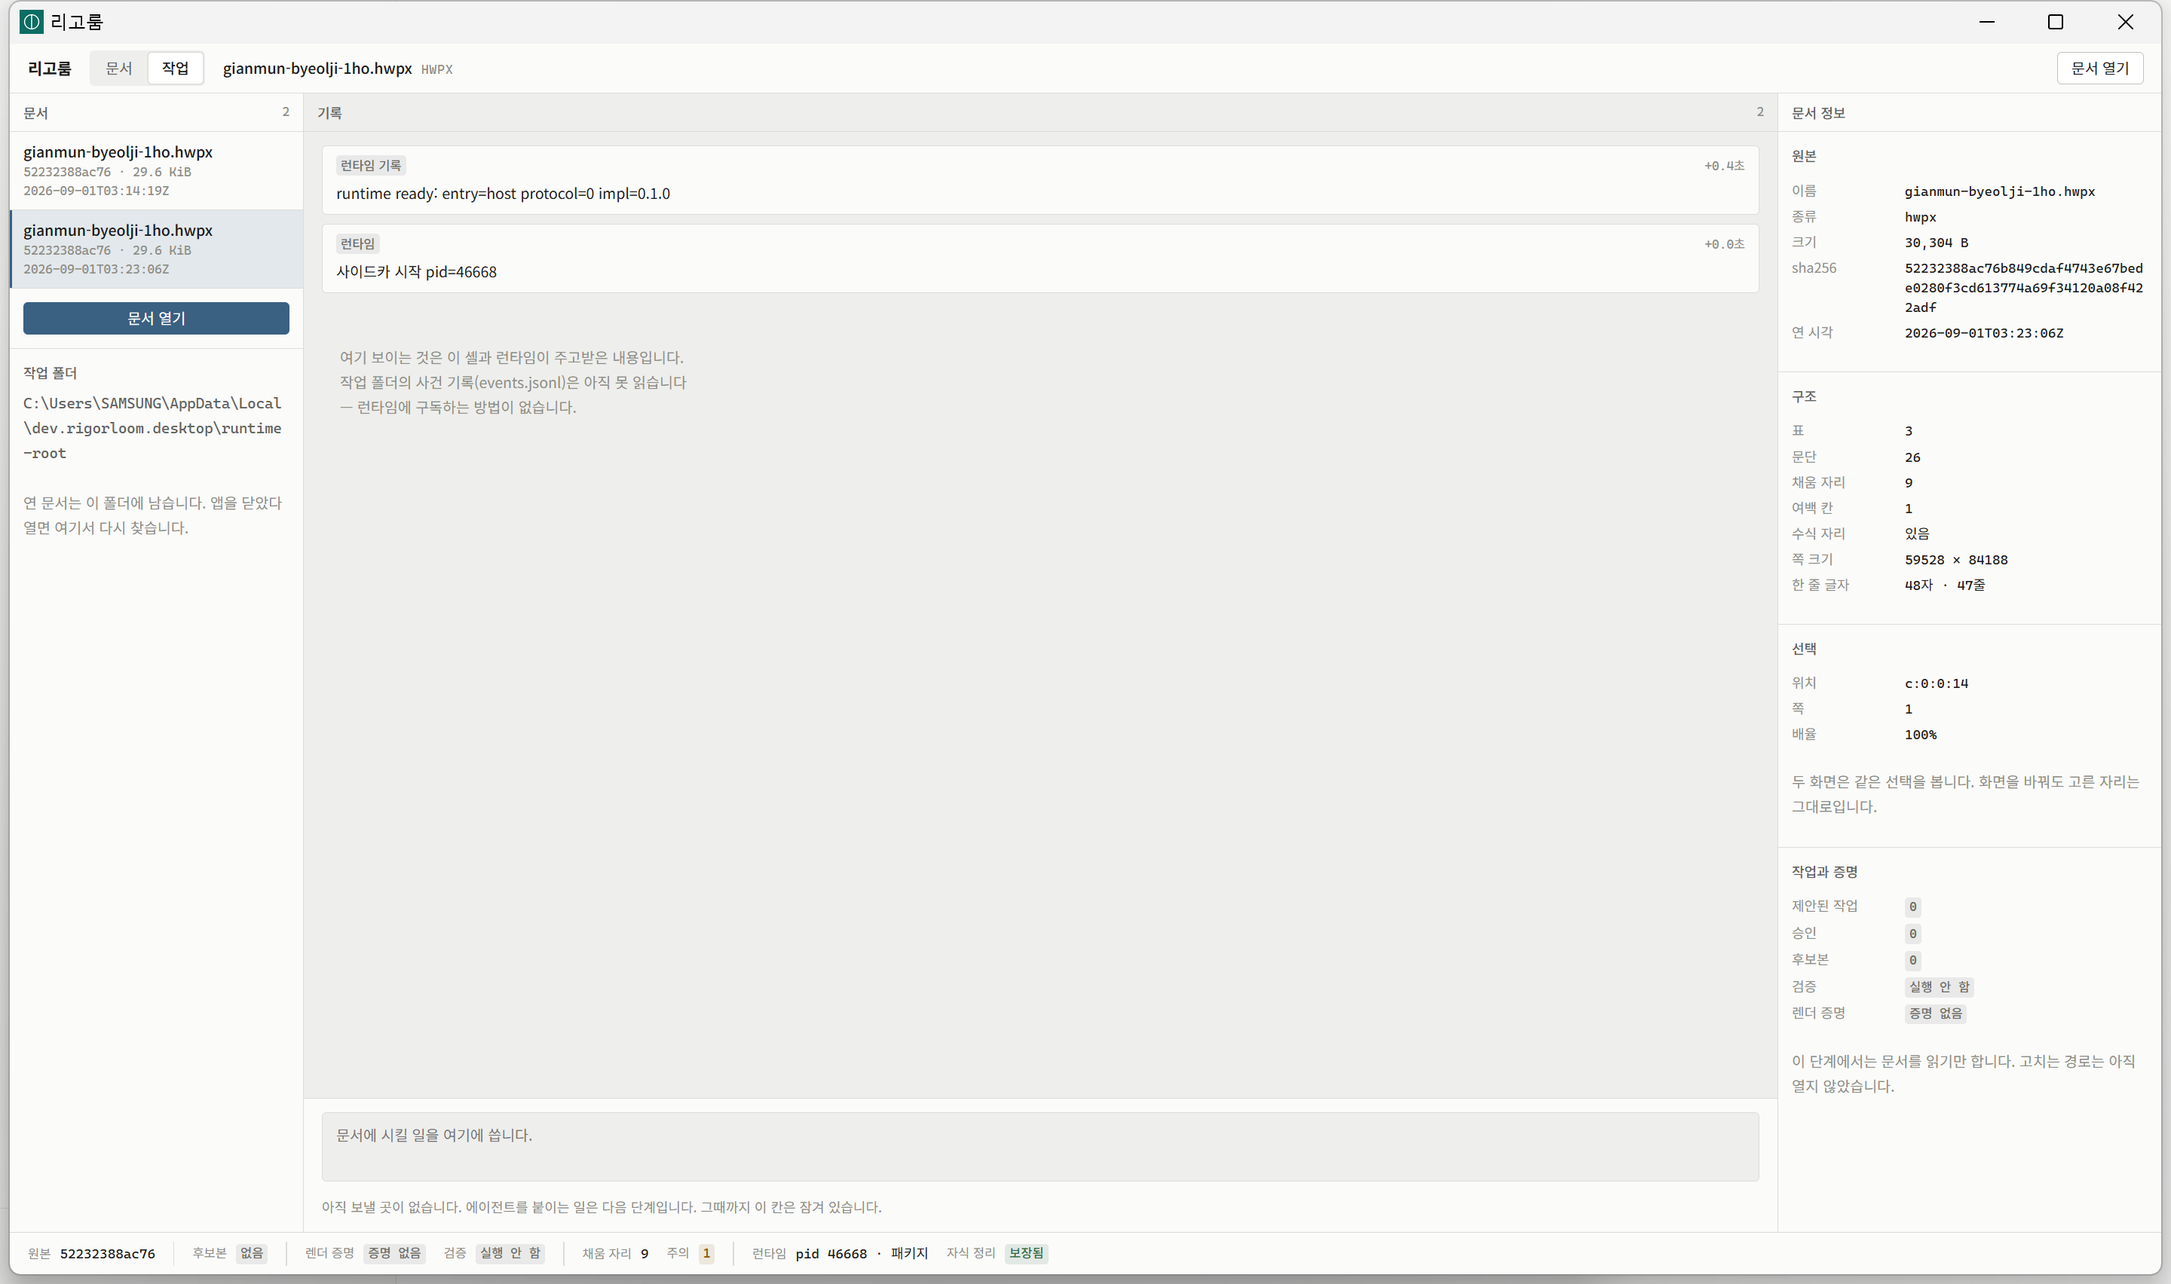
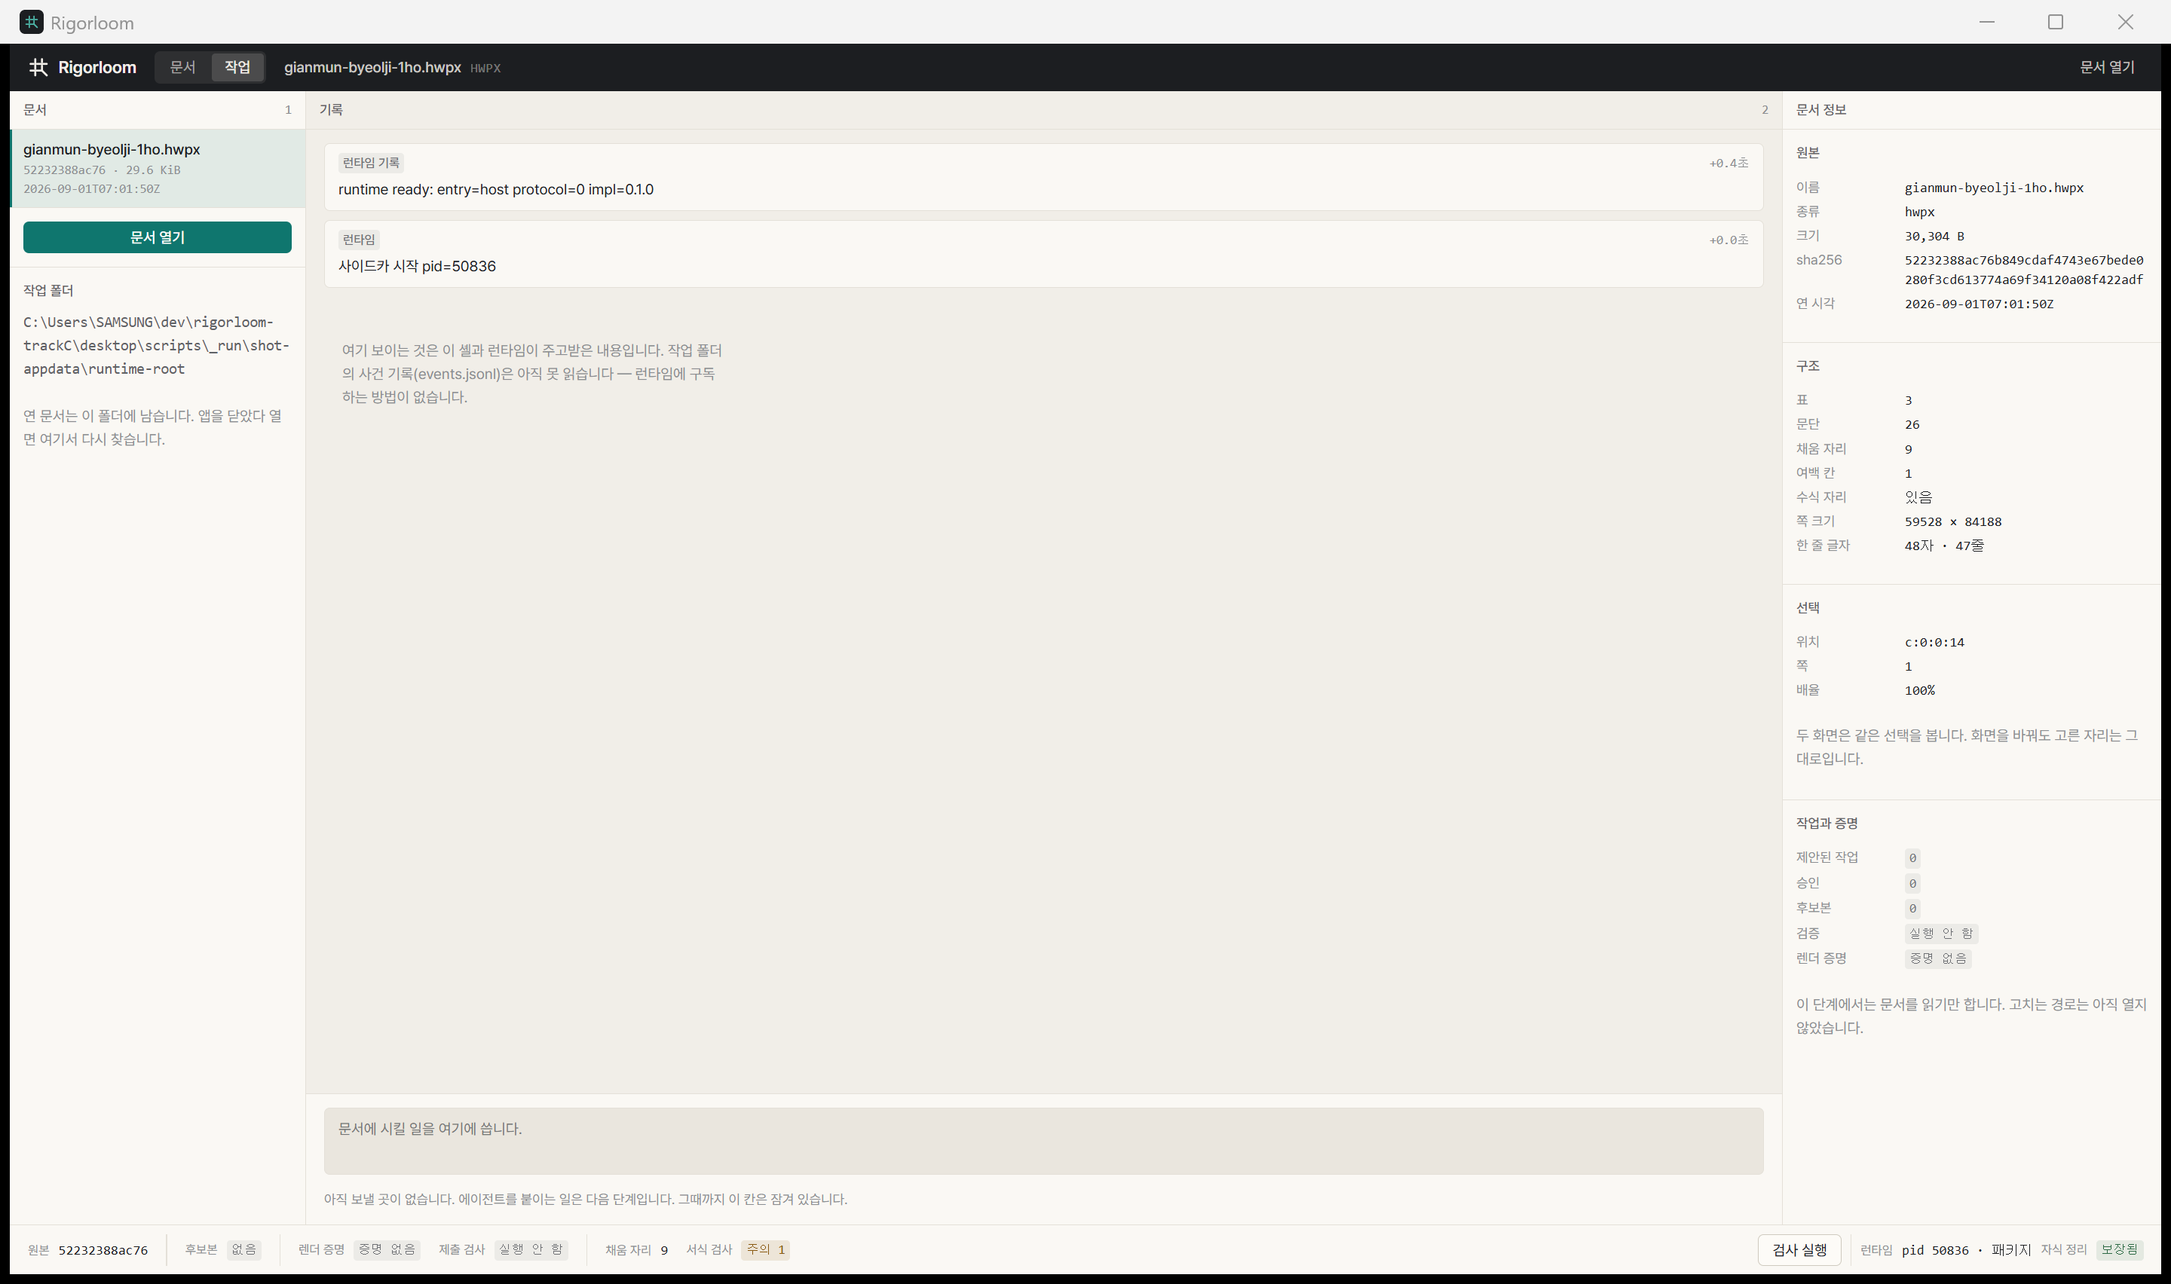
test(desktop): close the design slice's evidence, and four defects it found
Build exit 0 (4m30s), smoke 64 checks / 0 failures exit 0, screenshots 6 images
exit 0, pytest tests/test_runtime_*.py 162 passed exit 0. Shell exe 8.22 MiB,
NSIS installer 10.90 MiB, sidecar 23.26 MiB — the growth over Phase 3 is almost
exactly the 1.96 MiB of bundled Pretendard.

The four screenshots from Phase 3 are replaced and two new states added:
entrance, welcome, and both views at 100 and 150 percent, all with the real
corpus 기안문 loaded.

Getting there took four fixes, all in code or harness previously reported as
working.

The smoke never had the isolated profile it claimed. smoke.ps1 set
$env:LOCALAPPDATA to redirect the app's data directory, but Tauri resolves
app_local_data_dir() through SHGetKnownFolderPath, which reads the user profile
from the OS and ignores that variable — proven by the mtime on the developer's
real %LOCALAPPDATA%\dev.rigorloom.desktop\desktop-prefs.json moving during a
run. Every "clean user" run had been reading and writing real prefs, so boot()
found the previous run's lastSessionId, opened a document, and the welcome
screen never mounted. app_data_dir() now honours an explicit RIGORLOOM_APPDATA
and both scripts set it. A dead $SmokeRoot that was created and deleted but
never handed to the app is gone.

locate-flash was applied with classList.add while className on those cells is
React-controlled, so the next render dropped it — a flash that vanished for
users, not only for the harness. It is React state now. My first attempt put it
[…]

diff --git a/desktop/src/components/TextView.tsx b/desktop/src/components/TextView.tsx
@@ -32,7 +32,7 @@
  * slot's contents with an input and drafts an OperationPlan; nothing else about
  * this component has to change.
  */
-import { useEffect, useMemo, useRef } from "react";
+import { useEffect, useMemo, useRef, useState } from "react";
 
 import {
   activeText,
@@ -171,6 +171,18 @@ export function TextView({ inspect }: { inspect: InspectResult }) {
     [inspect],
   );
 
+  /**
+   * The node currently flashing, as state rather than a class poked onto the
+   * DOM.
+   *
+   * The imperative version lost the flash at random: `className` on these
+   * cells is a React-controlled prop, so the very next render — a selection
+   * change, a text arriving, anything — overwrote the attribute and took
+   * `locate-flash` with it. Owning it in state means React writes the class
+   * itself and no re-render can drop it.
+   */
+  const [flashId, setFlashId] = useState<string | null>(null);
+
   // Tree -> centre. Only when something asked (locateNonce), so clicking in
   // the document does not scroll the document out from under the pointer.
   useEffect(() => {
@@ -180,10 +192,19 @@ export function TextView({ inspect }: { inspect: InspectResult }) {
     );
     if (!target) return;
     target.scrollIntoView({ block: "center", behavior: "smooth" });
-    target.classList.remove("locate-flash");
-    // Force a reflow so the animation restarts on a repeated locate.
-    void target.offsetWidth;
-    target.classList.add("locate-flash");
+
+    // Set synchronously, with no requestAnimationFrame in the way. WebView2
+    // withholds rAF from a window that is not in the foreground, so a callback
+    // scheduled that way may simply never run — which would make the flash a
+    // coin-flip on any machine where the window lost focus, and made it fail
+    // every time under the harness.
+    //
+    // The cost of not clearing first is that a second locate on the same node
+    // inside 900 ms does not restart the animation. After 900 ms the timer has
+    // cleared the class and it restarts normally.
+    setFlashId(currentId);
+    const clear = window.setTimeout(() => setFlashId(null), 900);
+    return () => window.clearTimeout(clear);
   }, [locateNonce, currentId]);
 
   const select = (selection: Selection) => setSelection(selection);
@@ -210,15 +231,18 @@ export function TextView({ inspect }: { inspect: InspectResult }) {
                         colSpan={colSpan}
                         data-node-id={id}
                         data-testid={`doc-cell-${table.index}-${cell.addr.row}-${cell.addr.col}`}
-                        className={
+                        className={[
                           cell.classification === "fill_target"
                             ? "seat"
                             : cell.classification === "guide"
                               ? "guide"
                               : cell.classification === "spacer"
                                 ? "spacer"
-                                : ""
-                        }
+                                : "",
+                          flashId === id ? "locate-flash" : "",
+                        ]
+                          .filter(Boolean)
+                          .join(" ")}
                         aria-selected={currentId === id}
                         title={`R${cell.addr.row}C${cell.addr.col} · ${cell.classification}`}
                         onClick={() =>
@@ -252,7 +276,7 @@ export function TextView({ inspect }: { inspect: InspectResult }) {
               return (
                 <p
                   key={id}
-                  className="doc-para"
+                  className={flashId === id ? "doc-para locate-flash" : "doc-para"}
                   data-node-id={id}
                   data-testid={`doc-para-${para.at_para}`}
                   aria-selected={currentId === id}

diff --git a/desktop/src/smoke.ts b/desktop/src/smoke.ts
@@ -97,9 +97,20 @@ async function phaseOpen(config: SmokeConfig) {
   check("the packaged sidecar is the one running", status?.mode === "packaged", status?.mode ?? "none");
 
   // --- the welcome state, before any document ------------------------------
+  // `boot()` resolving only means the state is ready; React has not painted
+  // the shell yet, and the entrance is still over the top of it. Everything
+  // above this line reads the store, so it did not care — these read the DOM,
+  // so they have to wait for one.
+  await settled(160);
+  // A bare boolean here told me nothing when it failed, so both of these say
+  // what they actually saw.
+  const centre = document.querySelector(".panel.center");
+  const centreState = centre
+    ? `centre=${centre.firstElementChild?.className || "(empty)"}`
+    : `no centre panel; phase=${getState().phase}, splash=${!getState().entranceDone}`;
   check("welcome screen shown before a document is open",
-    !!document.querySelector('[data-testid="welcome"]'));
-  check("welcome offers a drop target", !!document.querySelector(".drop"));
+    !!document.querySelector('[data-testid="welcome"]'), centreState);
+  check("welcome offers a drop target", !!document.querySelector(".drop"), centreState);
   check("brand mark rendered", !!document.querySelector('[data-testid="logo"]'));
 
   if (!config.corpus) {
@@ -183,10 +194,20 @@ async function phaseOpen(config: SmokeConfig) {
   const seatId = selectionId(seatSel);
   locateSelection(seatSel);
   await settled(160);
-  const centreNode = document.querySelector(`[data-node-id="${CSS.escape(seatId)}"]`);
+  // Scoped to the centre, and that scoping is the whole point of the check.
+  // The tree and the centre both label their nodes with `data-node-id`, and
+  // the tree comes first in the document, so an unscoped querySelector returns
+  // the tree row — which made "the centre agrees with the tree" pass by
+  // inspecting the tree and agreeing with itself.
+  const centreNode = document.querySelector(
+    `[data-testid="text-view"] [data-node-id="${CSS.escape(seatId)}"]`,
+  );
   check("selecting in the tree marks the same node in the centre",
-    centreNode?.getAttribute("aria-selected") === "true", seatId);
-  check("the located node flashes", centreNode?.classList.contains("locate-flash") === true);
+    centreNode?.getAttribute("aria-selected") === "true",
+    centreNode ? seatId : "node not in the centre");
+  check("the located node flashes",
+    centreNode?.classList.contains("locate-flash") === true,
+    centreNode ? `class="${centreNode.className}"` : "node not in the centre");
 
   // --- centre -> tree sync ---------------------------------------------------
   const otherCell = inspect.graph.tables[0].cells.find(

diff --git a/desktop/src-tauri/src/main.rs b/desktop/src-tauri/src/main.rs
@@ -33,11 +33,29 @@ fn repo_root() -> PathBuf {
         .unwrap_or_else(|| PathBuf::from(MANIFEST_DIR))
 }
 
-fn default_root(app: &AppHandle) -> PathBuf {
+/// Where this build keeps prefs and the runtime root.
+///
+/// `RIGORLOOM_APPDATA` overrides it, and the harness depends on that: Tauri
+/// resolves `app_local_data_dir()` through `SHGetKnownFolderPath`, which reads
+/// the user profile from the OS and ignores the `LOCALAPPDATA` environment
+/// variable entirely. `smoke.ps1` had been setting that variable and believing
+/// it, so every "clean user" run was in fact reading and writing the
+/// developer's real prefs — which is how the smoke came to boot with a session
+/// left over from the previous run and never show the welcome screen at all.
+///
+/// An explicit variable the code honours is the only redirection that is
+/// actually true.
+pub fn app_data_dir(app: &AppHandle) -> PathBuf {
+    if let Some(dir) = std::env::var_os("RIGORLOOM_APPDATA") {
+        return PathBuf::from(dir);
+    }
     app.path()
         .app_local_data_dir()
         .unwrap_or_else(|_| std::env::temp_dir().join("rigorloom"))
-        .join("runtime-root")
+}
+
+fn default_root(app: &AppHandle) -> PathBuf {
+    app_data_dir(app).join("runtime-root")
 }
 
 // --- commands ---------------------------------------------------------------
@@ -188,10 +206,7 @@ fn smoke_finish(app: AppHandle, state: State<'_, Runtime>, report: Value) {
 /// the process goes away.
 fn install_panic_hook(app: AppHandle) {
     let previous = std::panic::take_hook();
-    let dir = app
-        .path()
-        .app_local_data_dir()
-        .unwrap_or_else(|_| std::env::temp_dir().join("rigorloom"));
+    let dir = app_data_dir(&app);
     std::panic::set_hook(Box::new(move |info| {
         let location = info
             .location()

diff --git a/desktop/src-tauri/src/prefs.rs b/desktop/src-tauri/src/prefs.rs
@@ -17,10 +17,7 @@ use tauri::{AppHandle, Manager};
 const FILE: &str = "desktop-prefs.json";
 
 fn path(app: &AppHandle) -> PathBuf {
-    app.path()
-        .app_local_data_dir()
-        .unwrap_or_else(|_| std::env::temp_dir().join("rigorloom"))
-        .join(FILE)
+    crate::app_data_dir(app).join(FILE)
 }
 
 pub fn load(app: &AppHandle) -> Value {

diff --git a/desktop/README.md b/desktop/README.md
@@ -324,52 +324,75 @@ Shell exe 6.08 MiB · NSIS installer 8.89 MiB · sidecar payload 23.2 MiB.
 Smoke: 36 checks, 0 failures, exit 0, across two processes with an orphan check
 between them. `pytest tests/test_runtime_*.py` 162 passed.
 
-### The design slice: NOT built, NOT smoked, screenshots NOT regenerated
+### The design slice
 
-Stated plainly because the alternative is a README that implies evidence which
-does not exist.
+| Step | Exit | Time |
+| --- | --- | --- |
+| `npx tsc --noEmit` | 0 | — |
+| `npm run tauri build` (release) | 0 | 4m 30s |
+| `scripts/smoke.ps1` | 0 | **64 checks, 0 failures** |
+| `scripts/screenshots.ps1` | 0 | 6 images |
+| `pytest tests/test_runtime_*.py` | 0 | 162 passed, 517s |
 
-**The build machine ran out of disk part-way through this slice** — `C:` reached
-0 bytes free of 463 GB. `cargo clean --profile dev` reclaimed 1 GB of my own
-unused debug artifacts; the release link then failed again at 0.05 GB free. The
-remaining large reclaimable item in this worktree is ~4.4 GB of untracked,
-gitignored build residue under `spikes/` left behind by an earlier branch
-checkout, which is not mine to delete unasked.
+Shell exe 8.22 MiB · NSIS installer 10.90 MiB · sidecar payload 23.26 MiB. The
+shell grew 6.08 → 8.22 MiB and the installer 8.89 → 10.90 MiB, which is almost
+exactly the 1.96 MiB of bundled Pretendard.
 
-Before that, thin LTO replaced fat LTO for an unrelated and independently
-correct reason: fat LTO with `codegen-units = 1` died with
-`rustc-LLVM ERROR: out of memory` on a 16 GB machine with a browser open. A
-build that only completes on an idle machine is not a build.
+Smoke: phase `open` 54, phase `reattach` 10, plus the orphan check between them.
+Beyond Phase 3's coverage it now asserts that 본문 보기 is the default centre,
+that **every** text run the runtime reported is present in the rendered paper
+column, that cells render as real table cells with the runtime's own cell count,
+that 페이지 보기 is offered and disabled, that selection syncs tree→centre and
+centre→tree, that the located node flashes, that 검사 실행 produces addressed
+findings while the bar still refuses to claim a render proof, and that app zoom
+and 최근 문서 survive a real process boundary.
 
-What **is** verified on this slice:
+Screenshots — `screenshots/`: `entrance`, `welcome`, and
+`{document,agent}-view-{100,150}pct`, all with the real corpus 기안문 loaded.
 
-| | |
-| --- | --- |
-| `npx tsc --noEmit` | exit 0 |
-| `npm run build` (tsc + vite) | exit 0 — `dist/` produced, Pretendard bundled into it |
-| Runtime fixture | recorded from a real Runtime v0 session (`scripts/record-fixture.py`) |
-| Rendered and inspected in a browser against that fixture | see below |
+`lto = "thin"` replaced `lto = true` for an independent reason: fat LTO with
+`codegen-units = 1` died with `rustc-LLVM ERROR: out of memory` on a 16 GB
+machine with a browser open. A build that only completes on an idle machine is
+not a build.
 
-The browser check ran the real components against the real recorded runtime
-output and confirmed, programmatically: `Pretendard Variable` loaded
-(`document.fonts.check` true); app `rgb(241,238,232)`, paper `rgb(254,253,251)`,
-titlebar `rgb(28,30,33)`; paper column 720 px; 34 document cells and 9 fill
-seats rendered, 8 with empty slots; **2 colour-anomaly runs rendered in the
-document's actual `rgb(0,0,255)`** with the anomaly marking — the T127 failure
-made visible rather than normalised away; every table row's colspans summing to
-the table's 15-column axis; 페이지 보기 present and disabled; the centre caveat
-reading 본문 보기 — 실제 페이지 배치는 렌더 증명 후 표시됩니다.
+### Four defects the evidence run found
 
-What that check cannot cover: the packaged sidecar, the job object, the
-entrance and view-switch motion in a real window, DPI behaviour, drag-and-drop,
-the native dialog, zoom persistence across a process boundary, and every smoke
-assertion that needs two launches. `scripts/smoke.ps1` and
-`scripts/screenshots.ps1` were extended for all of it and are unrun; the four
-screenshots in `screenshots/` are **from Phase 3 and are stale** — they predate
-the entire visual identity.
+Getting to green took four fixes, none of them cosmetic, and all four were in
+code or harness that had previously been reported as working.
 
-Everything above is one `powershell -File desktop/scripts/build-clean.ps1`
-away once there is disk.
+1. **The smoke never had the isolated profile it claimed.** `smoke.ps1` set
+   `$env:LOCALAPPDATA` to redirect the app's data directory, but Tauri resolves
+   `app_local_data_dir()` through `SHGetKnownFolderPath`, which reads the user
+   profile from the OS and ignores that variable. Every "clean user" run had in
+   fact been reading and writing the developer's real prefs — proven by the
+   mtime on `%LOCALAPPDATA%\dev.rigorloom.desktop\desktop-prefs.json` moving
+   during a run. So `boot()` found the previous run's `lastSessionId`, opened a
+   document, and the welcome screen never mounted. `app_data_dir()` now honours
+   an explicit `RIGORLOOM_APPDATA`, and both scripts set it. A dead `$SmokeRoot`
+   that was created and deleted but never handed to the app is gone.
+2. **`locate-flash` was applied imperatively and silently wiped.** `className`
+   on those cells is React-controlled, so the next render dropped the class.
+   User-visible, not just a test artefact. It is React state now. The first
+   attempt at that fix scheduled it behind `requestAnimationFrame`, which
+   WebView2 withholds from windows that are not in the foreground — a flash that
+   worked only when the window had focus. It is set synchronously.
+3. **A passing check was passing vacuously.** The tree and the centre both mark
+   nodes with `data-node-id`, and the tree comes first in the document, so the
+   unscoped `document.querySelector` in "selecting in the tree marks the same
+   node in the centre" was reading the tree and agreeing with itself. Both sync
+   checks are scoped to `[data-testid="text-view"]`. The failing flash check is
+   what exposed it; had it passed, the vacuous one would still be there.
+4. **The screenshots captured other applications.** `shot.ps1` used
+   `CopyFromScreen`, which copies whatever pixels sit inside the window's
+   rectangle, and `SetForegroundWindow` cannot be relied on to clear them
+   because Windows refuses focus changes from a process that is not already in
+   the foreground. One run produced "screenshots" of the app with an unrelated
+   chat window composited over the middle, private content included. Capture is
+   `PrintWindow` with `PW_RENDERFULLCONTENT` now, and it throws rather than
+   falling back to a screen grab.
+
+The runtime was not implicated in any of them; `reattach` passed 10/10
+throughout.
 
 ### What the evidence does not cover
 
